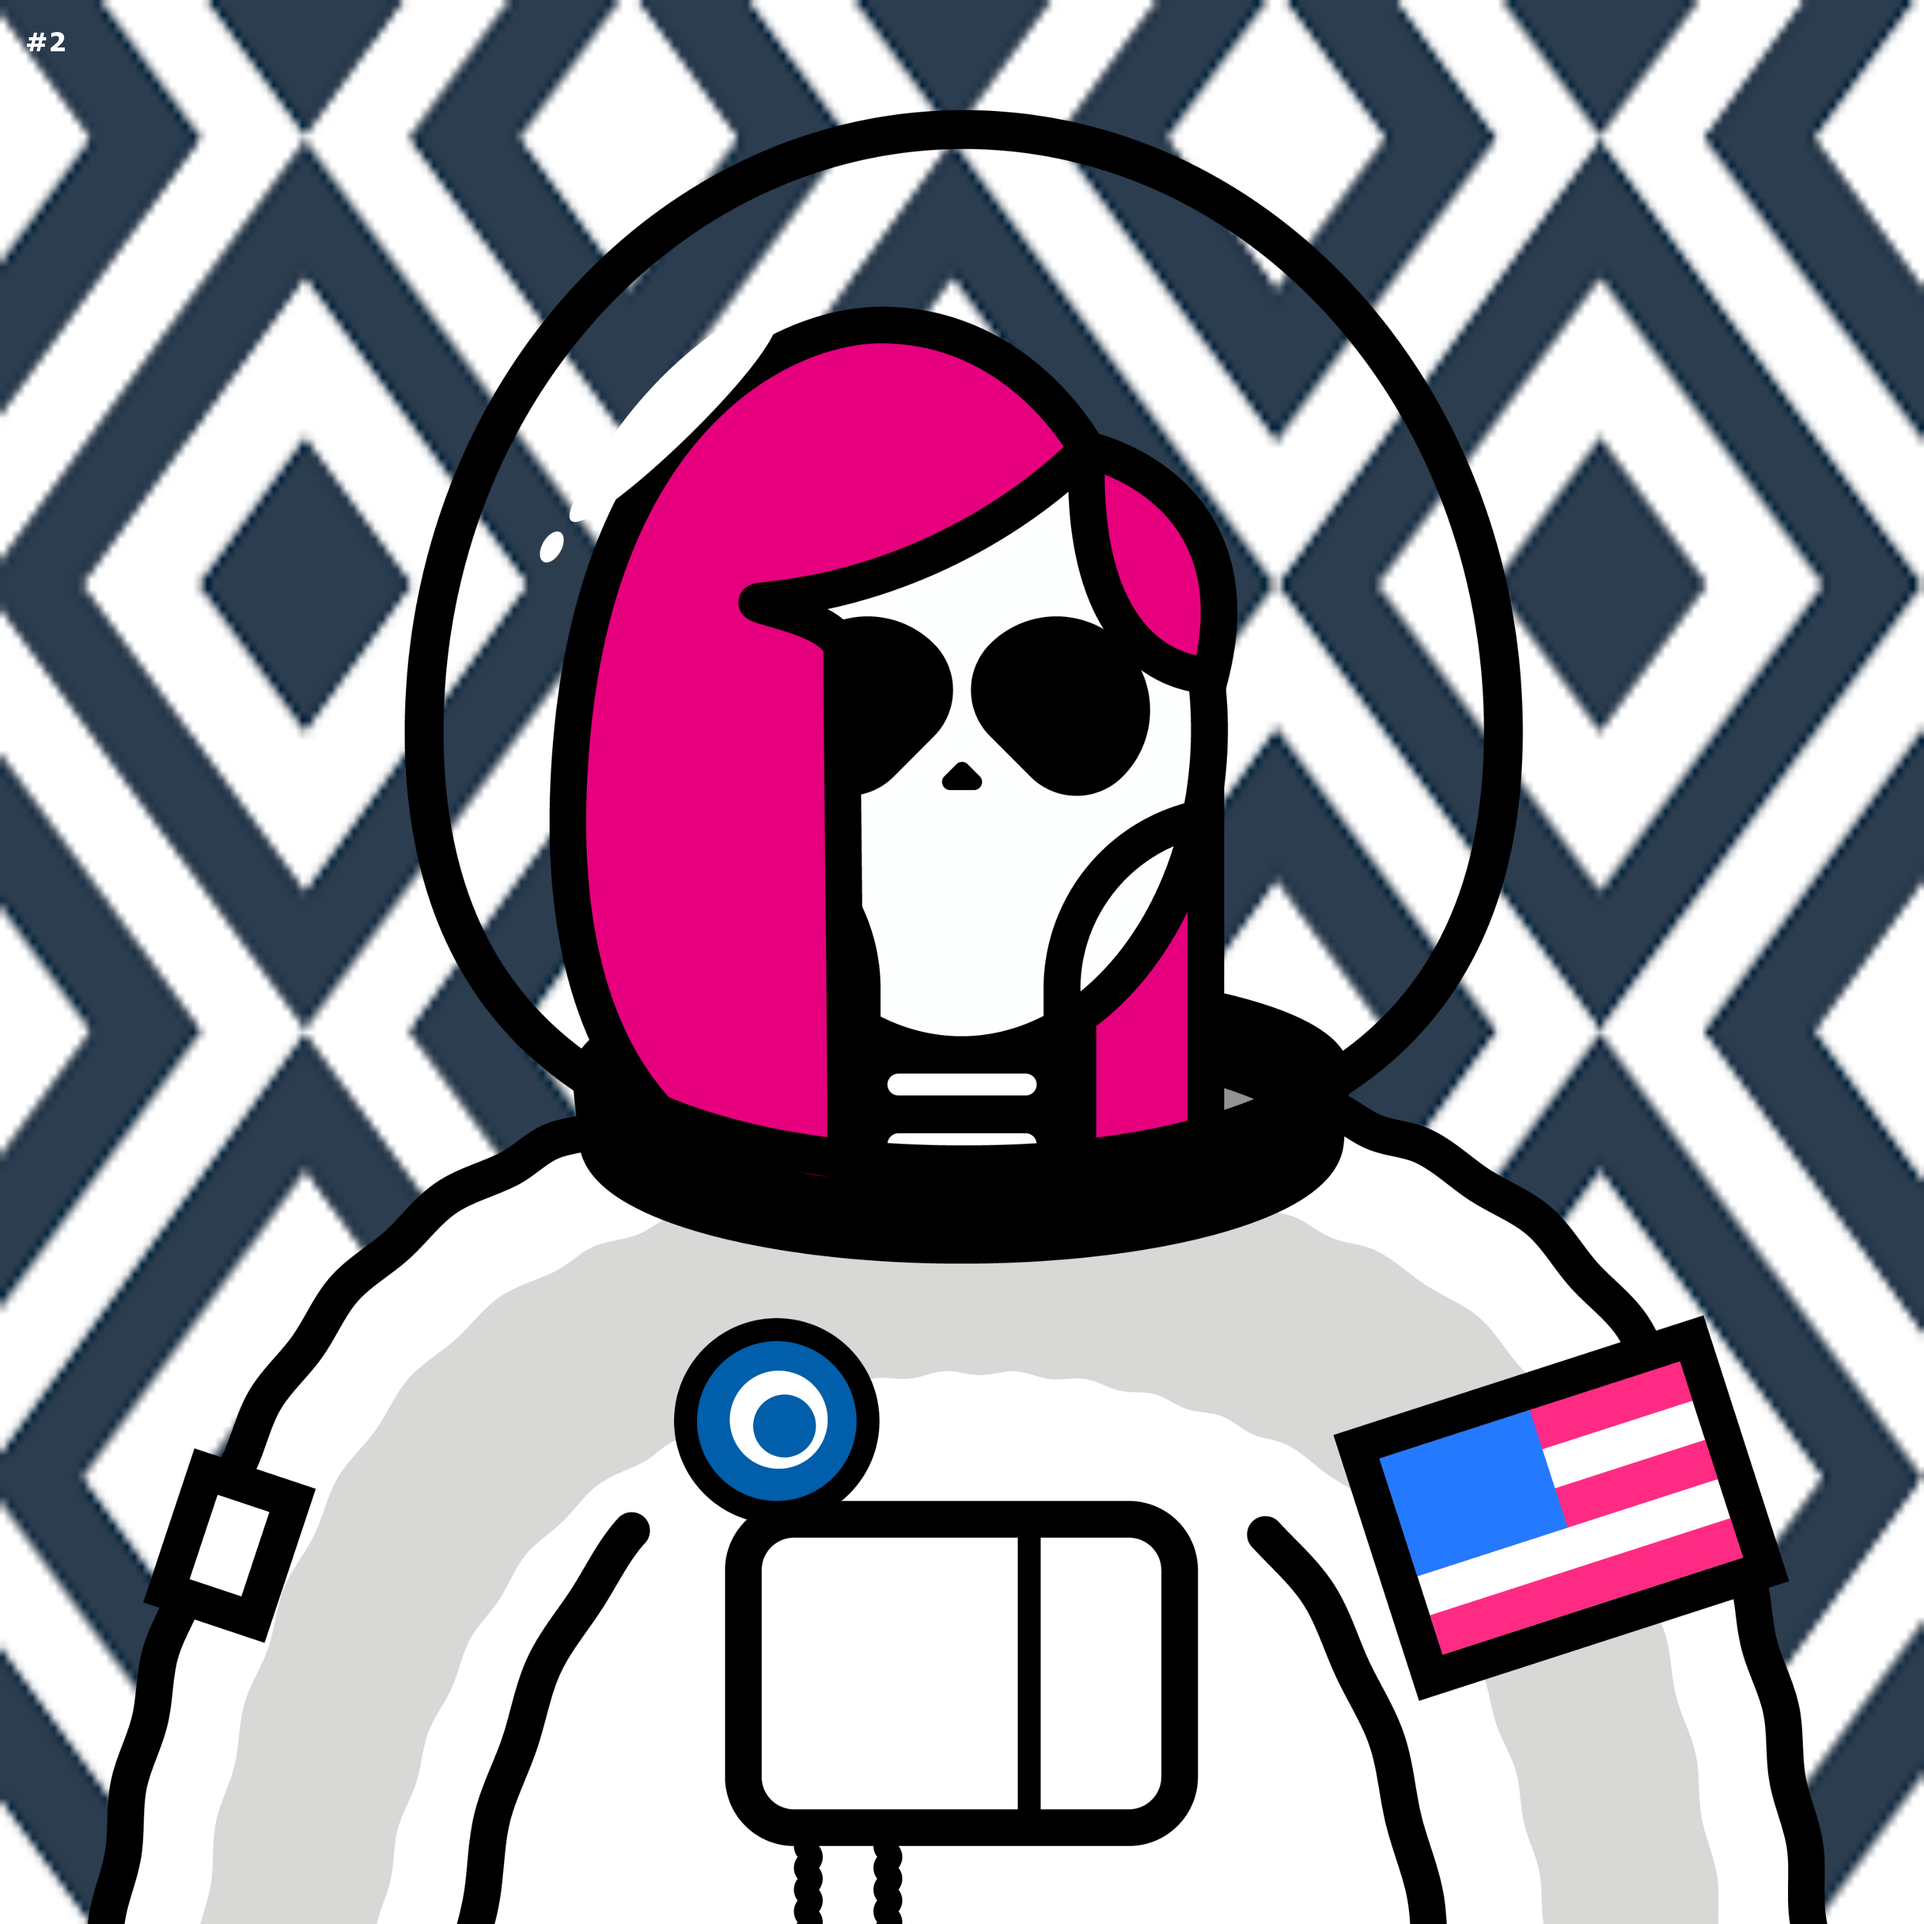
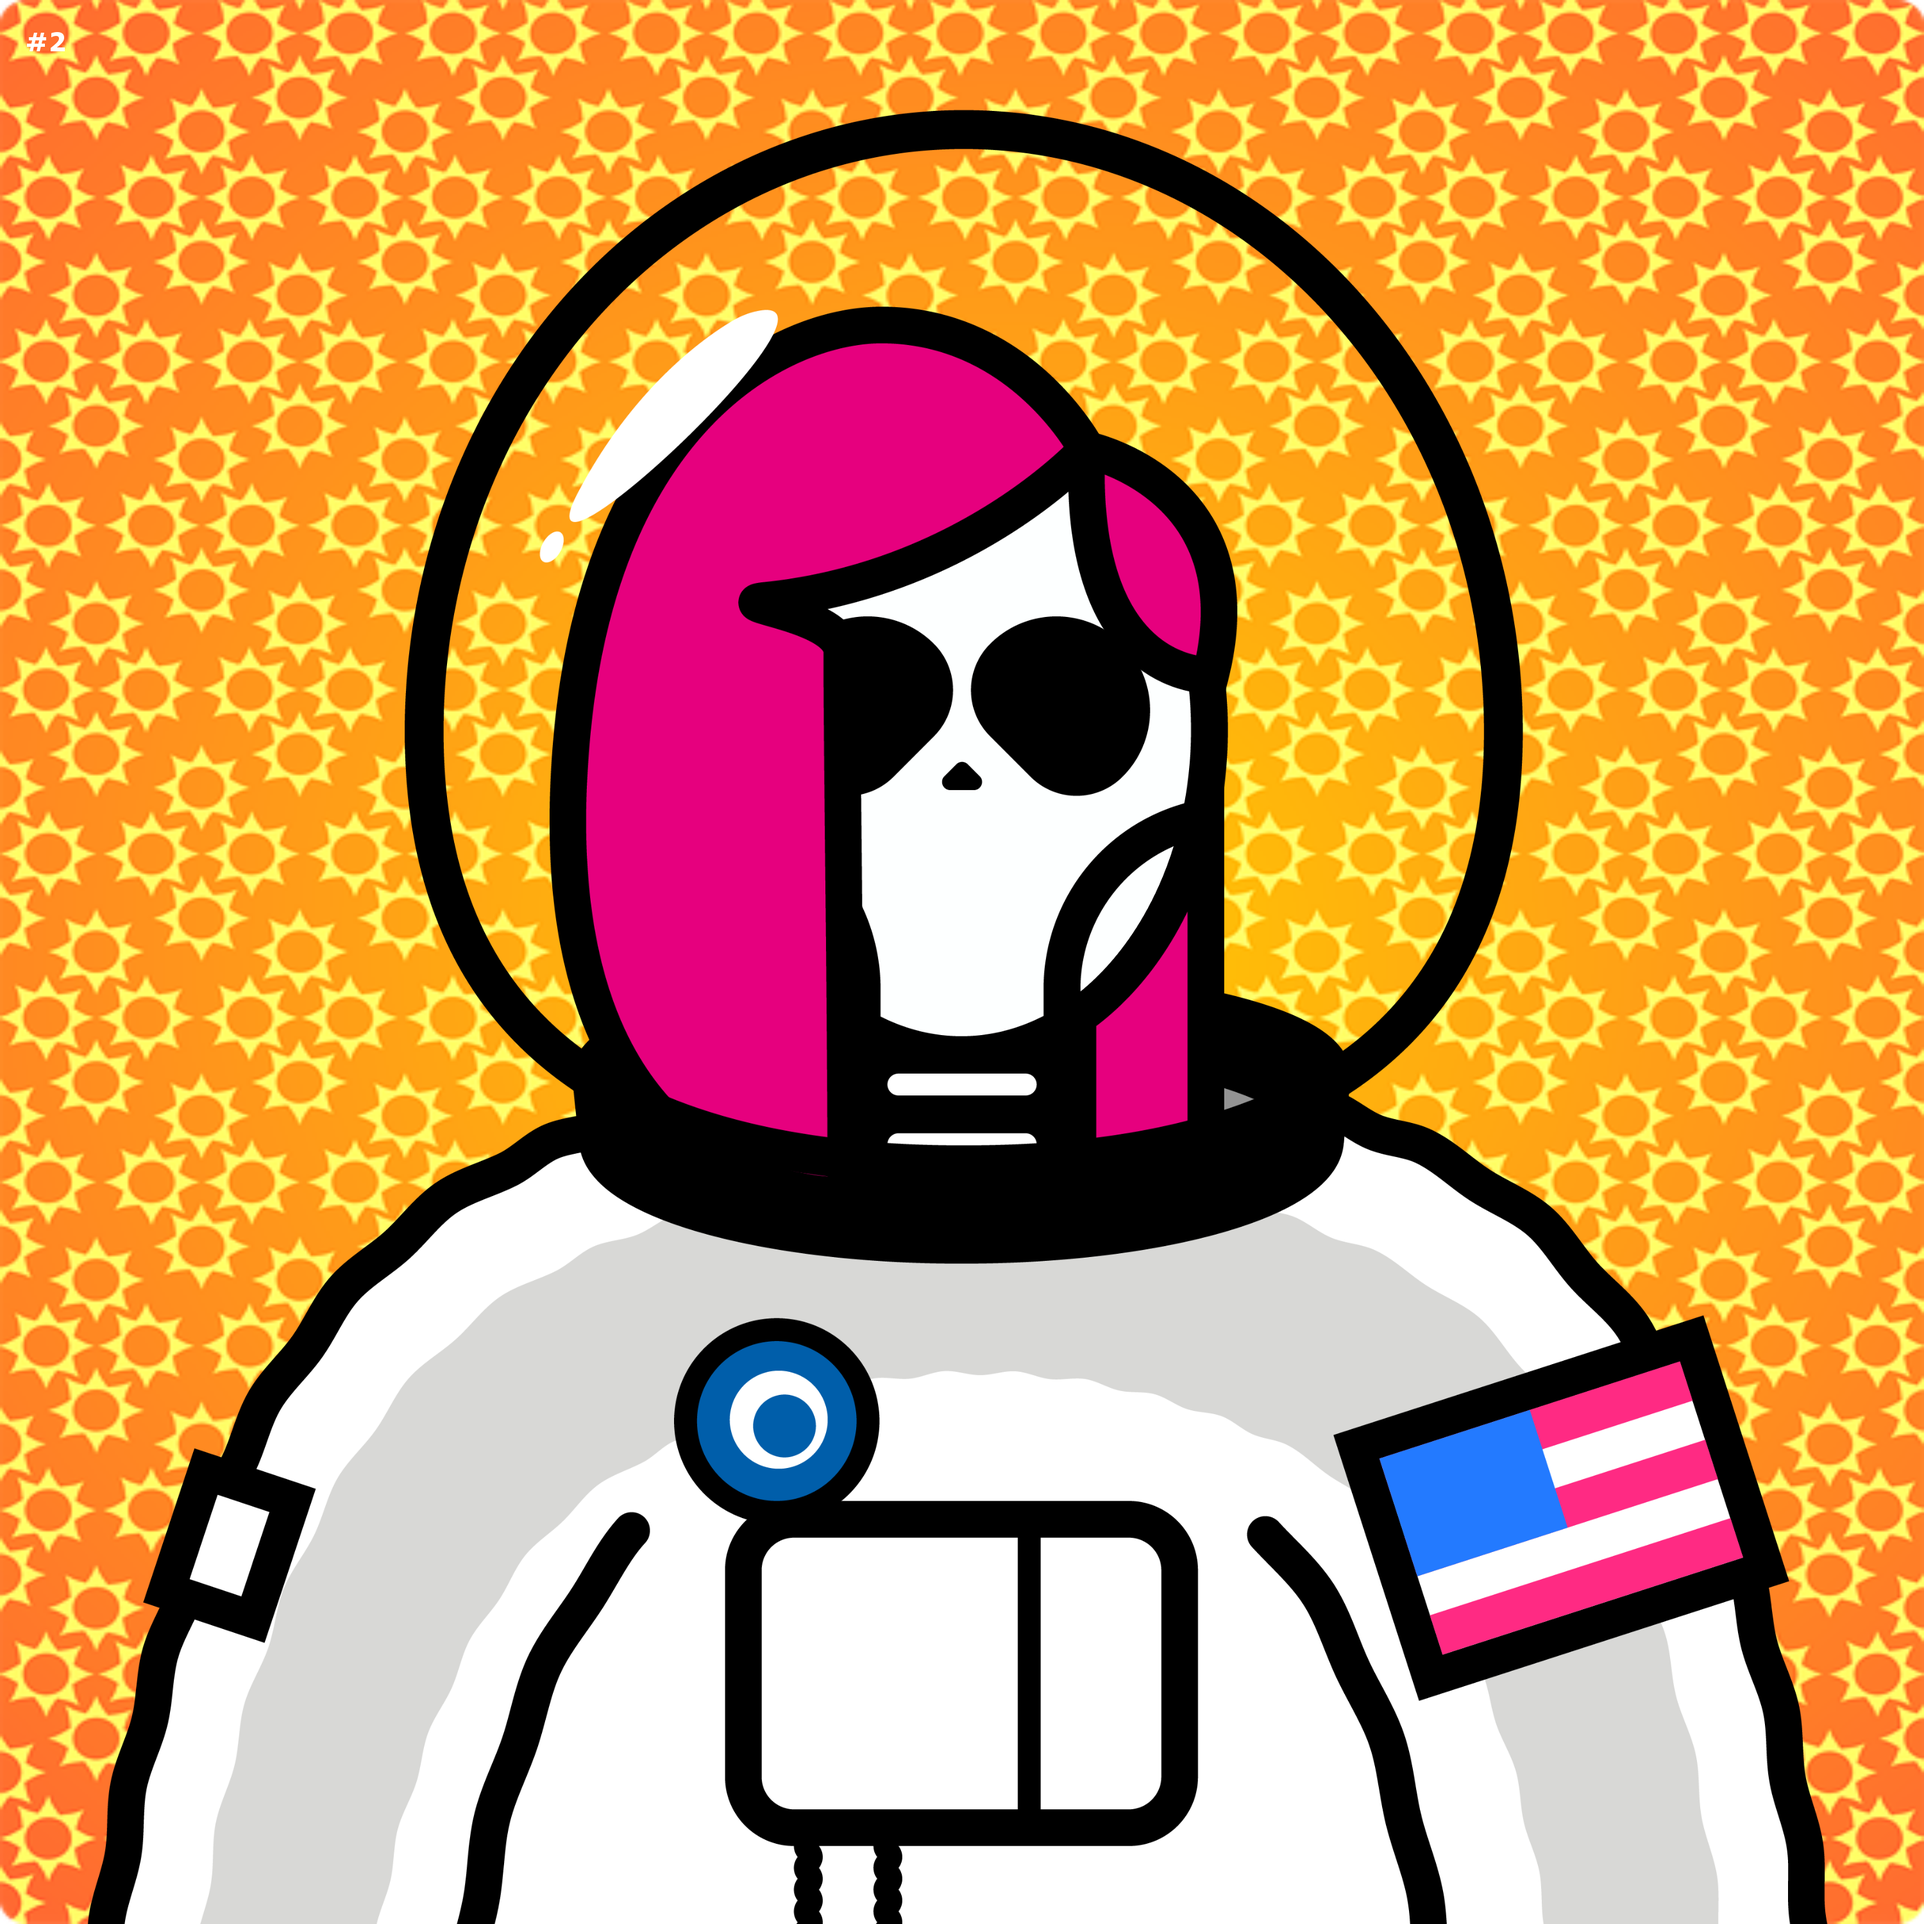
Removed unnecessary art and imported new art

diff --git a/input/config.js b/input/config.js
@@ -33,9 +33,9 @@ const races = {
         
           {
             id: 1,
-            name: "Pattern-7",
-            path: `${dir}/1-background/Pattern-7.jpg`,
-            weight: 5,
+            name: "Pattern-3",
+            path: `${dir}/1-background/Pattern-3.png`,
+            weight: 50,
           },
 
           {
